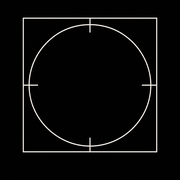
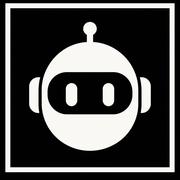
Ship Steel as the site, with a robot mark
- / now renders the Steel direction (Instrument's structure, Monolith's
  pure-black palette); the comparison switcher is gone from the homepage
  and the other directions stay reachable at their own noindex routes
- new logo: a line-drawn automaton head generated with GPT Image 2, keyed
  to transparency for the header and shipped solid as the favicon
- social card regenerated to match the new direction

diff --git a/app/page.tsx b/app/page.tsx
@@ -1,6 +1,6 @@
 import { SiteHeader } from "@/components/site-header";
 import { SiteFooter } from "@/components/site-footer";
-import { Hero } from "@/components/sections/hero";
+import { HeroTech, type HeroTechSkin } from "@/components/variants/hero-tech";
 import { Ticker } from "@/components/sections/ticker";
 import { How } from "@/components/sections/how";
 import { Why } from "@/components/sections/why";
@@ -8,14 +8,29 @@ import { Ledger } from "@/components/sections/ledger";
 import { Pay } from "@/components/sections/pay";
 import { Faq } from "@/components/sections/faq";
 import { Cta } from "@/components/sections/cta";
-import { VariantSwitch } from "@/components/variant-switch";
 
-export default function Home() {
+/** Instrument's layout, lit in white instead of blue. */
+const steelSkin: HeroTechSkin = {
+  bloom:
+    "radial-gradient(50% 50% at 50% 50%, rgba(255,255,255,0.55) 0%, rgba(255,255,255,0.12) 45%, transparent 75%)",
+  glow: "radial-gradient(circle, rgba(255,255,255,0.75) 0%, transparent 70%)",
+  pedestal:
+    "linear-gradient(90deg, transparent, rgba(244,243,241,0.7), transparent)",
+  gradient: "text-mercury",
+  robotColor: "#e6e3dd",
+  robotScreen: "#f4f3f1",
+  robotGlow: 0.6,
+  robotRim: "#efece6",
+  ctaClass: "bg-bone text-ink shadow-[0_10px_30px_-12px_rgba(255,255,255,0.55)]",
+};
+
+export default function Page() {
   return (
-    <>
+    <div data-variant="steel" className="bg-ink text-bone">
+      <style>{`body{background:#050505}`}</style>
       <SiteHeader />
       <main id="main">
-        <Hero />
+        <HeroTech skin={steelSkin} />
         <Ticker />
         <How />
         <Why />
@@ -25,7 +40,6 @@ export default function Home() {
         <Cta />
       </main>
       <SiteFooter />
-      <VariantSwitch current="/" />
-    </>
+    </div>
   );
 }

diff --git a/components/wordmark.tsx b/components/wordmark.tsx
@@ -1,25 +1,24 @@
+import Image from "next/image";
+
 /**
- * Typeset wordmark. Drawn as text in the display face so it stays crisp at
- * any size and needs no image request.
+ * Wordmark: the automaton mark next to the name. The mark ships as a keyed
+ * PNG (white on transparent) so it inherits the page's ground; light themes
+ * invert it through the `.mark` hook.
  */
 export function Wordmark({ className = "" }: { className?: string }) {
   return (
     <span
-      className={`inline-flex items-center gap-2 ${className}`}
+      className={`inline-flex items-center gap-2.5 ${className}`}
       style={{ lineHeight: 1 }}
     >
-      <svg
-        viewBox="0 0 16 16"
-        className="h-[0.95em] w-[0.95em] shrink-0"
-        fill="none"
-        stroke="currentColor"
-        strokeWidth="0.9"
-        aria-hidden="true"
-      >
-        <rect x="0.45" y="0.45" width="15.1" height="15.1" />
-        <circle cx="8" cy="8" r="6.1" />
-        <path d="M8 0.45v3.1M8 12.45v3.1M0.45 8h3.1M12.45 8h3.1" />
-      </svg>
+      <Image
+        src="/mark.png"
+        alt=""
+        width={256}
+        height={256}
+        priority
+        className="mark h-[1.4em] w-[1.4em] shrink-0"
+      />
       <span
         className="font-display font-bold uppercase"
         style={{ fontSize: "1em", letterSpacing: "0.18em" }}

diff --git a/app/globals.css b/app/globals.css
@@ -448,3 +448,7 @@ body::after {
   overflow: hidden;
 }
 [data-variant="steel"] ::selection { background: #f4f3f1; color: #050505; }
+
+/* the mark is drawn in white; invert it on the light directions */
+[data-variant="paper"] .mark,
+[data-variant="product"] .mark { filter: invert(1); }
